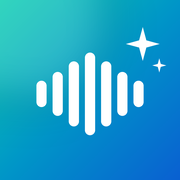
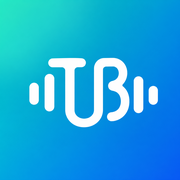
feat: adopt user-supplied TalkBrief brand mark

diff --git a/support/index.html b/support/index.html
@@ -3,10 +3,10 @@
 <title>Support — TalkBrief</title><meta name="description" content="Help with TalkBrief recording, transcription, AI summaries, subscriptions, iCloud Sync, exports, and TalkBrief Web.">
 <meta name="theme-color" content="#f7f8fa"><link rel="canonical" href="https://www.talkbrief.app/support/">
 <meta property="og:type" content="website"><meta property="og:site_name" content="TalkBrief"><meta property="og:title" content="Support — TalkBrief"><meta property="og:description" content="Help with TalkBrief recording, transcription, AI summaries, subscriptions, iCloud Sync, exports, and TalkBrief Web."><meta property="og:url" content="https://www.talkbrief.app/support/"><meta property="og:image" content="https://www.talkbrief.app/assets/web-workspace.jpg">
-<meta name="twitter:card" content="summary_large_image"><link rel="icon" type="image/png" sizes="80x80" href="/assets/favicon.png"><link rel="apple-touch-icon" sizes="180x180" href="/assets/apple-touch-icon.png"><link rel="stylesheet" href="/assets/styles.css"></head>
+<meta name="twitter:card" content="summary_large_image"><link rel="icon" type="image/png" sizes="32x32" href="/assets/favicon-32.png?v=20260914b"><link rel="icon" type="image/png" sizes="64x64" href="/assets/favicon-64.png?v=20260914b"><link rel="apple-touch-icon" sizes="180x180" href="/assets/apple-touch-icon.png?v=20260914b"><link rel="stylesheet" href="/assets/styles.css"></head>
 <body><a class="skip-link" href="#main">Skip to content</a>
 <header class="site-header"><nav class="nav wrap" aria-label="Main navigation">
-<a class="brand" href="/" aria-label="TalkBrief home"><img src="/assets/talkbrief-icon.png?v=20260912" width="34" height="34" alt=""><span>TalkBrief</span></a>
+<a class="brand" href="/" aria-label="TalkBrief home"><img src="/assets/talkbrief-icon.png?v=20260914b" width="34" height="34" alt=""><span>TalkBrief</span></a>
 <div class="nav-links"><a href="/#features">Features</a><a href="/support/" aria-current="page">Support</a></div>
 <a class="button nav-cta" href="https://web.talkbrief.app">TalkBrief Web <span aria-hidden="true">↗</span></a>
-</nav></header><main id="main"><section class="page-hero wrap"><p class="eyebrow">TALKBRIEF SUPPORT</p><h1>A little help.<br>A clearer path.</h1><p class="lede">Find answers, get back on track, and keep the conversation moving.</p></section><div class="support-layout wrap"><aside class="support-aside"><div class="contact-card"><span class="label">WE’RE HERE TO HELP</span><h2>Let’s sort it out.</h2><p>Send your iPhone model, iOS and app version, and a short description of the issue.</p><a class="text-link" href="mailto:talkbrief.ai@gmail.com">Email support ↗</a><span class="contact-email">talkbrief.ai@gmail.com</span><p class="fineprint">Please avoid sending private recordings or account credentials.</p></div><nav class="contents" aria-label="Support topics"><p>ON THIS PAGE</p><a href="#topic-0">Getting started</a><a href="#topic-1">Recording & transcription</a><a href="#topic-2">TalkBrief Web & iCloud</a><a href="#topic-3">AI, subscriptions & exports</a></nav></aside><div class="faqs"><section id="topic-0" class="faq-group"><h2>Getting started</h2><details><summary>What can I do with TalkBrief?<span aria-hidden="true">+</span></summary><div class="answer"><p>Record a conversation or import an audio file on iPhone. Create a transcript, request an AI summary, ask questions across recordings, and organize follow-up tasks. The Web workspace lets you revisit your synced library.</p></div></details><details><summary>What do I need for on-device transcription?<span aria-hidden="true">+</span></summary><div class="answer"><p>Apple On-Device transcription requires iOS 26 and supported hardware. Check that the selected language is supported and keep the app open while a long recording is being transcribed.</p></div></details><details><summary>Can I import an existing recording?<span aria-hidden="true">+</span></summary><div class="answer"><p>Yes. Import an audio file into your library, then open the recording to transcribe and review it. Only record or import conversations you have permission to use.</p></div></details></section><section id="topic-1" class="faq-group"><h2>Recording & transcription</h2><details><summary>The recording has no audio. What should I check?<span aria-hidden="true">+</span></summary><div class="answer"><p>Check microphone access in iPhone Settings and confirm another app is not using the microphone. Try a short recording in a quiet environment. Avoid force quitting TalkBrief while recording.</p></div></details><details><summary>How is cloud transcription different?<span aria-hidden="true">+</span></summary><div class="answer"><p>High-Accuracy Cloud transcription is a Pro feature that uploads the selected recording for processing. It requires an internet connection and an available monthly transcription allowance. On-device transcription processes audio locally on supported iPhones.</p></div></details><details><summary>Transcription is taking longer than expected.<span aria-hidden="true">+</span></summary><div class="answer"><p>Processing time depends on the recording length, transcription mode, and network conditions. Keep the app open, check your connection for cloud transcription, and follow any retry message. If the issue persists, contact support with the duration and selected mode; you do not need to send your recording.</p></div></details></section><section id="topic-2" class="faq-group"><h2>TalkBrief Web & iCloud</h2><details><summary>How do I open my library on the web?<span aria-hidden="true">+</span></summary><div class="answer"><p>Enable iCloud Sync in the TalkBrief iPhone app and allow your recordings to sync. Open <a href="https://web.talkbrief.app">TalkBrief Web</a> and sign in with the same Apple Account used for iCloud on your iPhone.</p></div></details><details><summary>Why is my Web library empty?<span aria-hidden="true">+</span></summary><div class="answer"><p>Check that iCloud Sync is enabled and completed in TalkBrief, then confirm you signed in with the same iCloud Apple Account. Refresh the Web library after syncing. The Apple Account used for App Store purchases can be different from your iCloud account.</p></div></details><details><summary>What can I do in TalkBrief Web?<span aria-hidden="true">+</span></summary><div class="answer"><p>Read synced summaries, action items, and transcripts; play synced recordings; download TXT or Markdown documents; and copy text for sharing. Recording and AI generation remain in the iPhone app. The Web Trash is currently read-only.</p></div></details><details><summary>Why will a recording not play?<span aria-hidden="true">+</span></summary><div class="answer"><p>Audio is requested from your private iCloud library when you choose to play it. Check that the audio has synced from your iPhone and that your browser has a network connection, then try again.</p></div></details></section><section id="topic-3" class="faq-group"><h2>AI, subscriptions & exports</h2><details><summary>Do summaries and Ask need an internet connection?<span aria-hidden="true">+</span></summary><div class="answer"><p>Yes. These features use cloud AI when you request them and send the relevant text and context for that request. Free usage has monthly limits. Check Profile in the app for your current plan and available features.</p></div></details><details><summary>How do I restore or manage a subscription?<span aria-hidden="true">+</span></summary><div class="answer"><p>Use Restore Purchases in TalkBrief after reinstalling or changing devices. Purchases are tied to the Apple Account used for the App Store. You can manage or cancel your subscription in <a href="https://apps.apple.com/account/subscriptions">Apple subscription settings</a>.</p></div></details><details><summary>How do I export my notes?<span aria-hidden="true">+</span></summary><div class="answer"><p>On iPhone, use the export or share controls in recording details. On the web, choose Download for TXT or Markdown documents, or Share to copy text. The available destination depends on your device and browser.</p></div></details></section></div></div></main><footer class="site-footer"><div class="wrap footer-top"><div><a class="brand" href="/"><img src="/assets/talkbrief-icon.png?v=20260912" width="30" height="30" alt=""><span>TalkBrief</span></a><p>Good conversations. Clear next steps.</p></div><nav aria-label="Footer navigation"><a href="https://web.talkbrief.app">TalkBrief Web ↗</a><a href="/support/">Support</a><a href="/terms/">Terms</a><a href="/privacy/">Privacy</a></nav></div><div class="wrap footer-bottom"><span>© 2026 TalkBrief. All rights reserved.</span><span>Made for the conversations that matter.</span></div></footer></body></html>
+</nav></header><main id="main"><section class="page-hero wrap"><p class="eyebrow">TALKBRIEF SUPPORT</p><h1>A little help.<br>A clearer path.</h1><p class="lede">Find answers, get back on track, and keep the conversation moving.</p></section><div class="support-layout wrap"><aside class="support-aside"><div class="contact-card"><span class="label">WE’RE HERE TO HELP</span><h2>Let’s sort it out.</h2><p>Send your iPhone model, iOS and app version, and a short description of the issue.</p><a class="text-link" href="mailto:talkbrief.ai@gmail.com">Email support ↗</a><span class="contact-email">talkbrief.ai@gmail.com</span><p class="fineprint">Please avoid sending private recordings or account credentials.</p></div><nav class="contents" aria-label="Support topics"><p>ON THIS PAGE</p><a href="#topic-0">Getting started</a><a href="#topic-1">Recording & transcription</a><a href="#topic-2">TalkBrief Web & iCloud</a><a href="#topic-3">AI, subscriptions & exports</a></nav></aside><div class="faqs"><section id="topic-0" class="faq-group"><h2>Getting started</h2><details><summary>What can I do with TalkBrief?<span aria-hidden="true">+</span></summary><div class="answer"><p>Record a conversation or import an audio file on iPhone. Create a transcript, request an AI summary, ask questions across recordings, and organize follow-up tasks. The Web workspace lets you revisit your synced library.</p></div></details><details><summary>What do I need for on-device transcription?<span aria-hidden="true">+</span></summary><div class="answer"><p>Apple On-Device transcription requires iOS 26 and supported hardware. Check that the selected language is supported and keep the app open while a long recording is being transcribed.</p></div></details><details><summary>Can I import an existing recording?<span aria-hidden="true">+</span></summary><div class="answer"><p>Yes. Import an audio file into your library, then open the recording to transcribe and review it. Only record or import conversations you have permission to use.</p></div></details></section><section id="topic-1" class="faq-group"><h2>Recording & transcription</h2><details><summary>The recording has no audio. What should I check?<span aria-hidden="true">+</span></summary><div class="answer"><p>Check microphone access in iPhone Settings and confirm another app is not using the microphone. Try a short recording in a quiet environment. Avoid force quitting TalkBrief while recording.</p></div></details><details><summary>How is cloud transcription different?<span aria-hidden="true">+</span></summary><div class="answer"><p>High-Accuracy Cloud transcription is a Pro feature that uploads the selected recording for processing. It requires an internet connection and an available monthly transcription allowance. On-device transcription processes audio locally on supported iPhones.</p></div></details><details><summary>Transcription is taking longer than expected.<span aria-hidden="true">+</span></summary><div class="answer"><p>Processing time depends on the recording length, transcription mode, and network conditions. Keep the app open, check your connection for cloud transcription, and follow any retry message. If the issue persists, contact support with the duration and selected mode; you do not need to send your recording.</p></div></details></section><section id="topic-2" class="faq-group"><h2>TalkBrief Web & iCloud</h2><details><summary>How do I open my library on the web?<span aria-hidden="true">+</span></summary><div class="answer"><p>Enable iCloud Sync in the TalkBrief iPhone app and allow your recordings to sync. Open <a href="https://web.talkbrief.app">TalkBrief Web</a> and sign in with the same Apple Account used for iCloud on your iPhone.</p></div></details><details><summary>Why is my Web library empty?<span aria-hidden="true">+</span></summary><div class="answer"><p>Check that iCloud Sync is enabled and completed in TalkBrief, then confirm you signed in with the same iCloud Apple Account. Refresh the Web library after syncing. The Apple Account used for App Store purchases can be different from your iCloud account.</p></div></details><details><summary>What can I do in TalkBrief Web?<span aria-hidden="true">+</span></summary><div class="answer"><p>Read synced summaries, action items, and transcripts; play synced recordings; download TXT or Markdown documents; and copy text for sharing. Recording and AI generation remain in the iPhone app. The Web Trash is currently read-only.</p></div></details><details><summary>Why will a recording not play?<span aria-hidden="true">+</span></summary><div class="answer"><p>Audio is requested from your private iCloud library when you choose to play it. Check that the audio has synced from your iPhone and that your browser has a network connection, then try again.</p></div></details></section><section id="topic-3" class="faq-group"><h2>AI, subscriptions & exports</h2><details><summary>Do summaries and Ask need an internet connection?<span aria-hidden="true">+</span></summary><div class="answer"><p>Yes. These features use cloud AI when you request them and send the relevant text and context for that request. Free usage has monthly limits. Check Profile in the app for your current plan and available features.</p></div></details><details><summary>How do I restore or manage a subscription?<span aria-hidden="true">+</span></summary><div class="answer"><p>Use Restore Purchases in TalkBrief after reinstalling or changing devices. Purchases are tied to the Apple Account used for the App Store. You can manage or cancel your subscription in <a href="https://apps.apple.com/account/subscriptions">Apple subscription settings</a>.</p></div></details><details><summary>How do I export my notes?<span aria-hidden="true">+</span></summary><div class="answer"><p>On iPhone, use the export or share controls in recording details. On the web, choose Download for TXT or Markdown documents, or Share to copy text. The available destination depends on your device and browser.</p></div></details></section></div></div></main><footer class="site-footer"><div class="wrap footer-top"><div><a class="brand" href="/"><img src="/assets/talkbrief-icon.png?v=20260914b" width="30" height="30" alt=""><span>TalkBrief</span></a><p>Good conversations. Clear next steps.</p></div><nav aria-label="Footer navigation"><a href="https://web.talkbrief.app">TalkBrief Web ↗</a><a href="/support/">Support</a><a href="/terms/">Terms</a><a href="/privacy/">Privacy</a></nav></div><div class="wrap footer-bottom"><span>© 2026 TalkBrief. All rights reserved.</span><span>Made for the conversations that matter.</span></div></footer></body></html>

diff --git a/index.html b/index.html
@@ -3,10 +3,10 @@
 <title>TalkBrief — Clear notes. Useful answers. Next steps.</title><meta name="description" content="Record and transcribe on iPhone, turn conversations into AI summaries and tasks, and revisit your private iCloud library with TalkBrief Web.">
 <meta name="theme-color" content="#f7f8fa"><link rel="canonical" href="https://www.talkbrief.app/">
 <meta property="og:type" content="website"><meta property="og:site_name" content="TalkBrief"><meta property="og:title" content="TalkBrief — Clear notes. Useful answers. Next steps."><meta property="og:description" content="Record and transcribe on iPhone, turn conversations into AI summaries and tasks, and revisit your private iCloud library with TalkBrief Web."><meta property="og:url" content="https://www.talkbrief.app/"><meta property="og:image" content="https://www.talkbrief.app/assets/web-workspace.jpg">
-<meta name="twitter:card" content="summary_large_image"><link rel="icon" type="image/png" sizes="80x80" href="/assets/favicon.png"><link rel="apple-touch-icon" sizes="180x180" href="/assets/apple-touch-icon.png"><link rel="stylesheet" href="/assets/styles.css"></head>
+<meta name="twitter:card" content="summary_large_image"><link rel="icon" type="image/png" sizes="32x32" href="/assets/favicon-32.png?v=20260914b"><link rel="icon" type="image/png" sizes="64x64" href="/assets/favicon-64.png?v=20260914b"><link rel="apple-touch-icon" sizes="180x180" href="/assets/apple-touch-icon.png?v=20260914b"><link rel="stylesheet" href="/assets/styles.css"></head>
 <body><a class="skip-link" href="#main">Skip to content</a>
 <header class="site-header"><nav class="nav wrap" aria-label="Main navigation">
-<a class="brand" href="/" aria-label="TalkBrief home"><img src="/assets/talkbrief-icon.png?v=20260912" width="34" height="34" alt=""><span>TalkBrief</span></a>
+<a class="brand" href="/" aria-label="TalkBrief home"><img src="/assets/talkbrief-icon.png?v=20260914b" width="34" height="34" alt=""><span>TalkBrief</span></a>
 <div class="nav-links"><a href="/#features">Features</a><a href="/support/" >Support</a></div>
 <a class="button nav-cta" href="https://web.talkbrief.app">TalkBrief Web <span aria-hidden="true">↗</span></a>
 </nav></header><main id="main">
@@ -19,4 +19,4 @@
 <article class="feature"><span class="feature-number">03 / FOLLOW THROUGH</span><h3>Make the next step clear.</h3><p>Turn action items into tasks, return to the source conversation, and export the notes you need for the work ahead.</p><div class="task-art" aria-hidden="true"><span>✓</span><div></div><span>✓</span><div></div></div></article></div><p class="section-note">Apple On-Device transcription requires iOS 26 and supported hardware. Cloud transcription requires Pro and an available monthly allowance.</p></section>
 <section class="web-section" id="web"><div class="wrap"><div class="web-intro"><div><p class="eyebrow">TALKBRIEF WEB</p><h2>A bigger view.<br>The same conversations.</h2></div><div><p>Read your synced briefs, revisit a transcript, and listen back from your browser. A little more room to think.</p><a class="button primary" href="https://web.talkbrief.app">Open TalkBrief Web <span aria-hidden="true">↗</span></a></div></div><figure class="browser-preview"><div class="browser-bar" aria-hidden="true"><div><i></i><i></i><i></i></div><span>web.talkbrief.app</span><span>↗</span></div><img src="/assets/web-workspace.jpg" width="1280" height="800" loading="lazy" alt="TalkBrief Web workspace with a recording library, summary, action items, transcript, playback, download and share controls"><figcaption>TalkBrief Web · sample library shown</figcaption></figure><div class="web-benefits"><div><strong>Your private library</strong><p>Enable iCloud Sync in the app and sign in with the same Apple Account.</p></div><div><strong>Read. Listen. Revisit.</strong><p>Open summaries and transcripts, review action items, and play synced audio.</p></div><div><strong>Take your notes with you</strong><p>Download TXT or Markdown documents and copy text to share.</p></div></div></div></section>
 <section class="section wrap privacy-section"><div><p class="eyebrow">PRIVACY, WITH CLARITY</p><h2>Your words.<br>Your choice.</h2><a class="text-link" href="/privacy/">Read our privacy policy <span aria-hidden="true">↗</span></a></div><div class="privacy-points"><article><span>01</span><div><h3>Local by default</h3><p>Recordings are stored on your device. Supported on-device transcription processes your audio locally.</p></div></article><article><span>02</span><div><h3>Cloud when you choose</h3><p>Optional iCloud Sync connects your devices. Cloud transcription uploads selected audio; AI summaries and Ask send relevant text when requested.</p></div></article><article><span>03</span><div><h3>Clear controls</h3><p>Choose what to sync, export, or share. Manage your recordings and private iCloud data from the app.</p></div></article></div></section>
-<section class="closing wrap"><img src="/assets/talkbrief-icon.png?v=20260912" width="60" height="60" alt=""><h2>Make room for the conversation.</h2><p>Your notes will be there when you need them.</p><a class="button primary" href="https://web.talkbrief.app">Open TalkBrief Web <span aria-hidden="true">↗</span></a><a class="text-link" href="/support/">Need a hand? Get support</a></section></main><footer class="site-footer"><div class="wrap footer-top"><div><a class="brand" href="/"><img src="/assets/talkbrief-icon.png?v=20260912" width="30" height="30" alt=""><span>TalkBrief</span></a><p>Good conversations. Clear next steps.</p></div><nav aria-label="Footer navigation"><a href="https://web.talkbrief.app">TalkBrief Web ↗</a><a href="/support/">Support</a><a href="/terms/">Terms</a><a href="/privacy/">Privacy</a></nav></div><div class="wrap footer-bottom"><span>© 2026 TalkBrief. All rights reserved.</span><span>Made for the conversations that matter.</span></div></footer></body></html>
+<section class="closing wrap"><img src="/assets/talkbrief-icon.png?v=20260914b" width="60" height="60" alt=""><h2>Make room for the conversation.</h2><p>Your notes will be there when you need them.</p><a class="button primary" href="https://web.talkbrief.app">Open TalkBrief Web <span aria-hidden="true">↗</span></a><a class="text-link" href="/support/">Need a hand? Get support</a></section></main><footer class="site-footer"><div class="wrap footer-top"><div><a class="brand" href="/"><img src="/assets/talkbrief-icon.png?v=20260914b" width="30" height="30" alt=""><span>TalkBrief</span></a><p>Good conversations. Clear next steps.</p></div><nav aria-label="Footer navigation"><a href="https://web.talkbrief.app">TalkBrief Web ↗</a><a href="/support/">Support</a><a href="/terms/">Terms</a><a href="/privacy/">Privacy</a></nav></div><div class="wrap footer-bottom"><span>© 2026 TalkBrief. All rights reserved.</span><span>Made for the conversations that matter.</span></div></footer></body></html>

diff --git a/privacy/index.html b/privacy/index.html
@@ -3,10 +3,10 @@
 <title>Privacy Policy — TalkBrief</title><meta name="description" content="How TalkBrief handles recordings, cloud services, iCloud, Web access, Notion, Obsidian, and Google Docs exports.">
 <meta name="theme-color" content="#f7f8fa"><link rel="canonical" href="https://www.talkbrief.app/privacy/">
 <meta property="og:type" content="website"><meta property="og:site_name" content="TalkBrief"><meta property="og:title" content="Privacy Policy — TalkBrief"><meta property="og:description" content="How TalkBrief handles recordings, cloud services, iCloud, Web access, Notion, Obsidian, and Google Docs exports."><meta property="og:url" content="https://www.talkbrief.app/privacy/"><meta property="og:image" content="https://www.talkbrief.app/assets/web-workspace.jpg">
-<meta name="twitter:card" content="summary_large_image"><link rel="icon" type="image/png" sizes="80x80" href="/assets/favicon.png"><link rel="apple-touch-icon" sizes="180x180" href="/assets/apple-touch-icon.png"><link rel="stylesheet" href="/assets/styles.css"></head>
+<meta name="twitter:card" content="summary_large_image"><link rel="icon" type="image/png" sizes="32x32" href="/assets/favicon-32.png?v=20260914b"><link rel="icon" type="image/png" sizes="64x64" href="/assets/favicon-64.png?v=20260914b"><link rel="apple-touch-icon" sizes="180x180" href="/assets/apple-touch-icon.png?v=20260914b"><link rel="stylesheet" href="/assets/styles.css"></head>
 <body><a class="skip-link" href="#main">Skip to content</a>
 <header class="site-header"><nav class="nav wrap" aria-label="Main navigation">
-<a class="brand" href="/" aria-label="TalkBrief home"><img src="/assets/talkbrief-icon.png?v=20260912" width="34" height="34" alt=""><span>TalkBrief</span></a>
+<a class="brand" href="/" aria-label="TalkBrief home"><img src="/assets/talkbrief-icon.png?v=20260914b" width="34" height="34" alt=""><span>TalkBrief</span></a>
 <div class="nav-links"><a href="/#features">Features</a><a href="/support/" >Support</a></div>
 <a class="button nav-cta" href="https://web.talkbrief.app">TalkBrief Web <span aria-hidden="true">↗</span></a>
 </nav></header><main id="main"><section class="page-hero wrap legal-hero"><p class="eyebrow">PRIVACY POLICY</p><h1>Your privacy, explained.</h1><p class="lede">Understand what stays on your device, what uses the cloud, and the choices you control.</p><p class="updated">Last updated September 14, 2026</p></section><div class="legal-layout wrap"><nav class="contents" aria-label="Privacy Policy contents"><p>ON THIS PAGE</p><a href="#local-recordings-and-transcription">Local recordings and transcription</a><a href="#speaker-identification">Speaker identification</a><a href="#high-accuracy-cloud-transcription">High-Accuracy Cloud transcription</a><a href="#cloud-ai-features">Cloud AI features</a><a href="#usage-limits-and-subscriptions">Usage limits and subscriptions</a><a href="#icloud-sync">iCloud Sync</a><a href="#talkbrief-web">TalkBrief Web</a><a href="#icloud-sharing">iCloud sharing</a><a href="#reminders-and-exports">Reminders and exports</a><a href="#optional-integrations">Optional integrations</a><a href="#notion">Notion</a><a href="#obsidian">Obsidian</a><a href="#google-docs">Google Docs</a><a href="#your-control">Your control</a><a href="#no-sale-of-personal-data">No sale of personal data</a><a href="#contact">Contact</a></nav><article class="legal"><section id="local-recordings-and-transcription">
@@ -176,4 +176,4 @@
           <p>
             For privacy questions, contact <a href="mailto:talkbrief.ai@gmail.com">talkbrief.ai@gmail.com</a>.
           </p>
-        </section></article></div></main><footer class="site-footer"><div class="wrap footer-top"><div><a class="brand" href="/"><img src="/assets/talkbrief-icon.png?v=20260912" width="30" height="30" alt=""><span>TalkBrief</span></a><p>Good conversations. Clear next steps.</p></div><nav aria-label="Footer navigation"><a href="https://web.talkbrief.app">TalkBrief Web ↗</a><a href="/support/">Support</a><a href="/terms/">Terms</a><a href="/privacy/">Privacy</a></nav></div><div class="wrap footer-bottom"><span>© 2026 TalkBrief. All rights reserved.</span><span>Made for the conversations that matter.</span></div></footer></body></html>
+        </section></article></div></main><footer class="site-footer"><div class="wrap footer-top"><div><a class="brand" href="/"><img src="/assets/talkbrief-icon.png?v=20260914b" width="30" height="30" alt=""><span>TalkBrief</span></a><p>Good conversations. Clear next steps.</p></div><nav aria-label="Footer navigation"><a href="https://web.talkbrief.app">TalkBrief Web ↗</a><a href="/support/">Support</a><a href="/terms/">Terms</a><a href="/privacy/">Privacy</a></nav></div><div class="wrap footer-bottom"><span>© 2026 TalkBrief. All rights reserved.</span><span>Made for the conversations that matter.</span></div></footer></body></html>

diff --git a/terms/index.html b/terms/index.html
@@ -3,10 +3,10 @@
 <title>Terms of Use — TalkBrief</title><meta name="description" content="Terms for using TalkBrief, its AI features, subscriptions, and exports.">
 <meta name="theme-color" content="#f7f8fa"><link rel="canonical" href="https://www.talkbrief.app/terms/">
 <meta property="og:type" content="website"><meta property="og:site_name" content="TalkBrief"><meta property="og:title" content="Terms of Use — TalkBrief"><meta property="og:description" content="Terms for using TalkBrief, its AI features, subscriptions, and exports."><meta property="og:url" content="https://www.talkbrief.app/terms/"><meta property="og:image" content="https://www.talkbrief.app/assets/web-workspace.jpg">
-<meta name="twitter:card" content="summary_large_image"><link rel="icon" type="image/png" sizes="80x80" href="/assets/favicon.png"><link rel="apple-touch-icon" sizes="180x180" href="/assets/apple-touch-icon.png"><link rel="stylesheet" href="/assets/styles.css"></head>
+<meta name="twitter:card" content="summary_large_image"><link rel="icon" type="image/png" sizes="32x32" href="/assets/favicon-32.png?v=20260914b"><link rel="icon" type="image/png" sizes="64x64" href="/assets/favicon-64.png?v=20260914b"><link rel="apple-touch-icon" sizes="180x180" href="/assets/apple-touch-icon.png?v=20260914b"><link rel="stylesheet" href="/assets/styles.css"></head>
 <body><a class="skip-link" href="#main">Skip to content</a>
 <header class="site-header"><nav class="nav wrap" aria-label="Main navigation">
-<a class="brand" href="/" aria-label="TalkBrief home"><img src="/assets/talkbrief-icon.png?v=20260912" width="34" height="34" alt=""><span>TalkBrief</span></a>
+<a class="brand" href="/" aria-label="TalkBrief home"><img src="/assets/talkbrief-icon.png?v=20260914b" width="34" height="34" alt=""><span>TalkBrief</span></a>
 <div class="nav-links"><a href="/#features">Features</a><a href="/support/" >Support</a></div>
 <a class="button nav-cta" href="https://web.talkbrief.app">TalkBrief Web <span aria-hidden="true">↗</span></a>
 </nav></header><main id="main"><section class="page-hero wrap legal-hero"><p class="eyebrow">TERMS OF USE</p><h1>A clear understanding.</h1><p class="lede">The essentials for using TalkBrief, from recording responsibly to managing your subscription.</p><p class="updated">Last updated May 27, 2026</p></section><div class="legal-layout wrap"><nav class="contents" aria-label="Terms of Use contents"><p>ON THIS PAGE</p><a href="#using-the-app">Using the app</a><a href="#consent-to-record">Consent to record</a><a href="#ai-output">AI output</a><a href="#subscriptions">Subscriptions</a><a href="#acceptable-use">Acceptable use</a><a href="#availability">Availability</a><a href="#contact">Contact</a></nav><article class="legal"><section id="using-the-app">
@@ -51,4 +51,4 @@
           <p>
             Questions about these terms can be sent to <a href="mailto:talkbrief.ai@gmail.com">talkbrief.ai@gmail.com</a>.
           </p>
-        </section></article></div></main><footer class="site-footer"><div class="wrap footer-top"><div><a class="brand" href="/"><img src="/assets/talkbrief-icon.png?v=20260912" width="30" height="30" alt=""><span>TalkBrief</span></a><p>Good conversations. Clear next steps.</p></div><nav aria-label="Footer navigation"><a href="https://web.talkbrief.app">TalkBrief Web ↗</a><a href="/support/">Support</a><a href="/terms/">Terms</a><a href="/privacy/">Privacy</a></nav></div><div class="wrap footer-bottom"><span>© 2026 TalkBrief. All rights reserved.</span><span>Made for the conversations that matter.</span></div></footer></body></html>
+        </section></article></div></main><footer class="site-footer"><div class="wrap footer-top"><div><a class="brand" href="/"><img src="/assets/talkbrief-icon.png?v=20260914b" width="30" height="30" alt=""><span>TalkBrief</span></a><p>Good conversations. Clear next steps.</p></div><nav aria-label="Footer navigation"><a href="https://web.talkbrief.app">TalkBrief Web ↗</a><a href="/support/">Support</a><a href="/terms/">Terms</a><a href="/privacy/">Privacy</a></nav></div><div class="wrap footer-bottom"><span>© 2026 TalkBrief. All rights reserved.</span><span>Made for the conversations that matter.</span></div></footer></body></html>

diff --git a/404.html b/404.html
@@ -3,10 +3,10 @@
 <title>Page not found — TalkBrief</title><meta name="description" content="Find your way back to TalkBrief.">
 <meta name="theme-color" content="#f7f8fa"><link rel="canonical" href="https://www.talkbrief.app/404.html">
 <meta property="og:type" content="website"><meta property="og:site_name" content="TalkBrief"><meta property="og:title" content="Page not found — TalkBrief"><meta property="og:description" content="Find your way back to TalkBrief."><meta property="og:url" content="https://www.talkbrief.app/404.html"><meta property="og:image" content="https://www.talkbrief.app/assets/web-workspace.jpg">
-<meta name="twitter:card" content="summary_large_image"><link rel="icon" type="image/png" sizes="80x80" href="/assets/favicon.png"><link rel="apple-touch-icon" sizes="180x180" href="/assets/apple-touch-icon.png"><link rel="stylesheet" href="/assets/styles.css"></head>
+<meta name="twitter:card" content="summary_large_image"><link rel="icon" type="image/png" sizes="32x32" href="/assets/favicon-32.png?v=20260914b"><link rel="icon" type="image/png" sizes="64x64" href="/assets/favicon-64.png?v=20260914b"><link rel="apple-touch-icon" sizes="180x180" href="/assets/apple-touch-icon.png?v=20260914b"><link rel="stylesheet" href="/assets/styles.css"></head>
 <body><a class="skip-link" href="#main">Skip to content</a>
 <header class="site-header"><nav class="nav wrap" aria-label="Main navigation">
-<a class="brand" href="/" aria-label="TalkBrief home"><img src="/assets/talkbrief-icon.png?v=20260912" width="34" height="34" alt=""><span>TalkBrief</span></a>
+<a class="brand" href="/" aria-label="TalkBrief home"><img src="/assets/talkbrief-icon.png?v=20260914b" width="34" height="34" alt=""><span>TalkBrief</span></a>
 <div class="nav-links"><a href="/#features">Features</a><a href="/support/" >Support</a></div>
 <a class="button nav-cta" href="https://web.talkbrief.app">TalkBrief Web <span aria-hidden="true">↗</span></a>
-</nav></header><main id="main"><section class="page-hero wrap missing"><p class="eyebrow">404 / PAGE NOT FOUND</p><h1>Let’s get you back.</h1><p class="lede">This page may have moved, or the address may be incomplete.</p><a class="button primary" href="/">Back to TalkBrief</a></section></main><footer class="site-footer"><div class="wrap footer-top"><div><a class="brand" href="/"><img src="/assets/talkbrief-icon.png?v=20260912" width="30" height="30" alt=""><span>TalkBrief</span></a><p>Good conversations. Clear next steps.</p></div><nav aria-label="Footer navigation"><a href="https://web.talkbrief.app">TalkBrief Web ↗</a><a href="/support/">Support</a><a href="/terms/">Terms</a><a href="/privacy/">Privacy</a></nav></div><div class="wrap footer-bottom"><span>© 2026 TalkBrief. All rights reserved.</span><span>Made for the conversations that matter.</span></div></footer></body></html>
+</nav></header><main id="main"><section class="page-hero wrap missing"><p class="eyebrow">404 / PAGE NOT FOUND</p><h1>Let’s get you back.</h1><p class="lede">This page may have moved, or the address may be incomplete.</p><a class="button primary" href="/">Back to TalkBrief</a></section></main><footer class="site-footer"><div class="wrap footer-top"><div><a class="brand" href="/"><img src="/assets/talkbrief-icon.png?v=20260914b" width="30" height="30" alt=""><span>TalkBrief</span></a><p>Good conversations. Clear next steps.</p></div><nav aria-label="Footer navigation"><a href="https://web.talkbrief.app">TalkBrief Web ↗</a><a href="/support/">Support</a><a href="/terms/">Terms</a><a href="/privacy/">Privacy</a></nav></div><div class="wrap footer-bottom"><span>© 2026 TalkBrief. All rights reserved.</span><span>Made for the conversations that matter.</span></div></footer></body></html>

diff --git a/scripts/stage.py b/scripts/stage.py
@@ -3,7 +3,7 @@ from pathlib import Path
 import hashlib,json,shutil
 ROOT=Path(__file__).resolve().parents[1]
 OUT=ROOT/'dist'
-FILES=['index.html','support/index.html','terms/index.html','privacy/index.html','404.html','robots.txt','sitemap.xml','_headers','assets/styles.css','assets/talkbrief-icon.png','assets/favicon.png','assets/apple-touch-icon.png','assets/iphone-capture.png','assets/web-workspace.jpg']
+FILES=['index.html','support/index.html','terms/index.html','privacy/index.html','404.html','robots.txt','sitemap.xml','_headers','assets/styles.css','assets/talkbrief-icon.png','assets/talkbrief-icon-192.png','assets/favicon.png','assets/favicon-64.png','assets/favicon-32.png','assets/apple-touch-icon.png','assets/iphone-capture.png','assets/web-workspace.jpg']
 OUT.mkdir(exist_ok=True)
 existing={p.relative_to(OUT).as_posix() for p in OUT.rglob('*') if p.is_file()}
 unexpected=existing-set(FILES)
